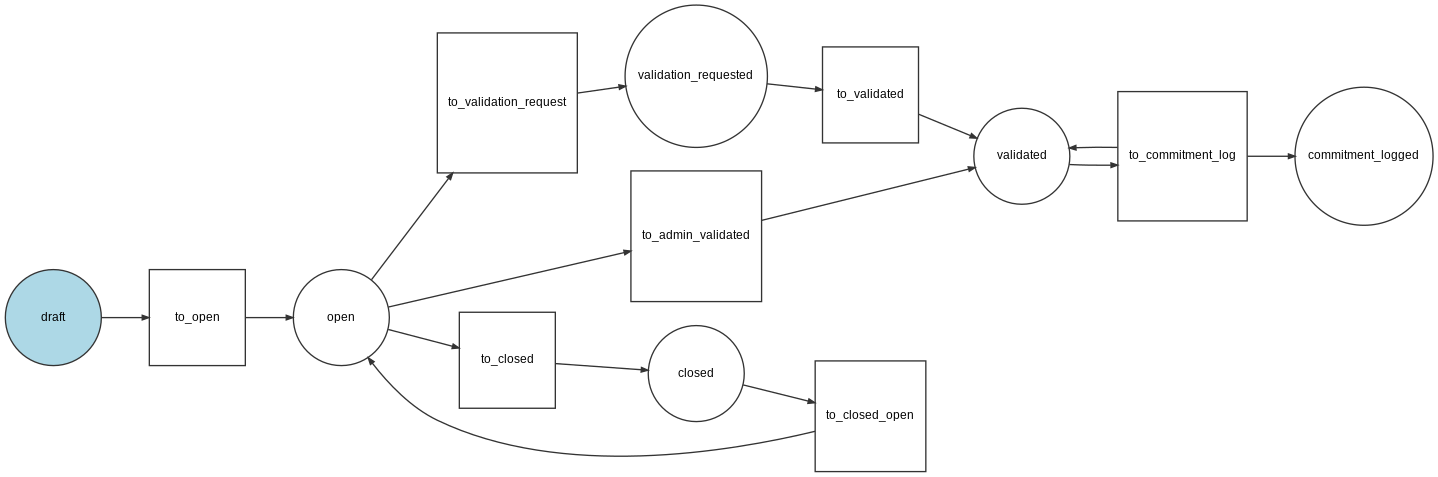
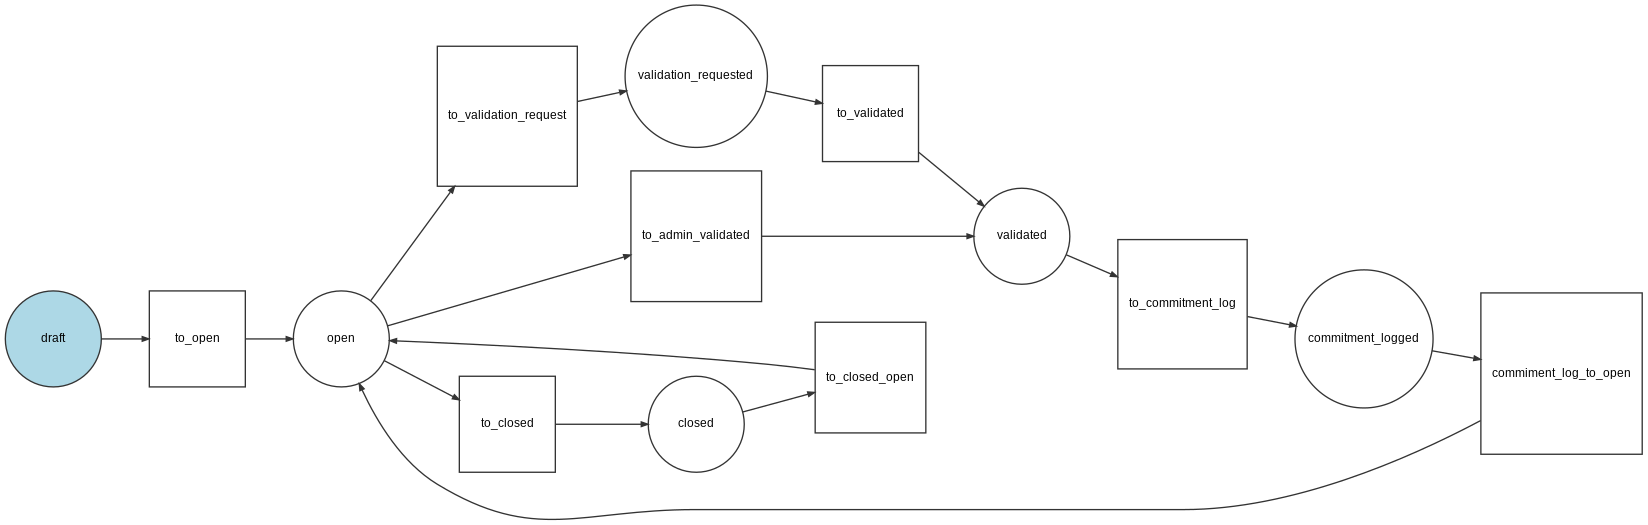
👌 IMPROVE: Timeslot validation multiselection & CommitmentLog review for debit/credit

diff --git a/src/EventListener/TimeslotEventListener.php b/src/EventListener/TimeslotEventListener.php
@@ -1,0 +1,112 @@
+<?php
+
+/*
+ * This file is part of the Kreno package.
+ *
+ * (c) Valentin Van Meeuwen <contact@wikub.com>
+ *
+ * For the full copyright and license information, please view the LICENSE
+ * file that was distributed with this source code.
+ */
+
+namespace App\EventListener;
+
+use App\Entity\CommitmentLog;
+use App\Entity\Job;
+use App\Entity\Timeslot;
+use Doctrine\ORM\EntityManagerInterface;
+use Doctrine\Persistence\Event\LifecycleEventArgs;
+use LogicException;
+use Symfony\Component\Workflow\WorkflowInterface;
+
+class TimeslotEventListener
+{
+    private $timeslotWorkflow;
+    private $em;
+
+    public function __construct(WorkflowInterface $timeslotWorkflow, EntityManagerInterface $entityManager)
+    {
+        $this->timeslotWorkflow = $timeslotWorkflow;
+        $this->em = $entityManager;
+    }
+
+    // the entity listener methods receive two arguments:
+    // the entity instance and the lifecycle event
+    public function postUpdate(Timeslot $timeslot, LifecycleEventArgs $event): void
+    {
+        $changesTimeslot = $this->em->getUnitOfWork()->getEntityChangeSet($timeslot);
+
+        // Validation
+        if (isset($changesTimeslot['status']) && $timeslot->isValidated()) {
+            $this->fromValidatedToCommimentLogged($timeslot);
+        }
+
+        // Cancel Validation
+        if (isset($changesTimeslot['status']) && \array_key_exists('commitment_logged', $changesTimeslot['status'][0]) && \array_key_exists('open', $changesTimeslot['status'][1])) {
+            $this->fromCommimentLoggedToOpen($timeslot);
+        }
+
+        $this->em->flush();
+    }
+
+    private function fromValidatedToCommimentLogged(Timeslot $timeslot)
+    {
+        try {
+            $this->timeslotWorkflow->apply($timeslot, 'to_commitment_log');
+        } catch (LogicException $exception) {
+            return;
+        }
+
+        foreach ($timeslot->getJobs() as $job) {
+            if (null === $job->getUser()) {
+                continue;
+            }
+
+            if ($job->getTimeslot()->isCommitmentLogged()) {
+                // add commitmentlog credit
+                if ($job->getJobDone()->getCommitmentCalculation()) {
+                    $job->setCommitmentLog($this->addCommitmentLog($job));
+                }
+            }
+            $this->em->persist($job);
+        }
+
+        $this->em->persist($timeslot);
+    }
+
+    private function fromCommimentLoggedToOpen(Timeslot $timeslot)
+    {
+        foreach ($timeslot->getJobs() as $job) {
+            if (null === $job->getCommitmentLog()) {
+                continue;
+            }
+
+            $this->addCancelCommitmentLog($job);
+            $job->setCommitmentLog(null);
+
+            $this->em->persist($job);
+        }
+
+        $this->em->persist($timeslot);
+    }
+
+    private function addCancelCommitmentLog(Job $job)
+    {
+        $commitLog = new CommitmentLog();
+        $commitLog->setUser($job->getUser());
+        $commitLog->setNbTimeslot(-1 * $job->getCommitmentLog()->getNbTimeslot());
+        $commitLog->setComment('Annulation : '.$job->getCommitmentLog()->getComment());
+        $this->em->persist($commitLog);
+    }
+
+    private function addCommitmentLog(Job $job): CommitmentLog
+    {
+        $commitLog = new CommitmentLog();
+        $commitLog->setUser($job->getUser());
+        $commitLog->setNbTimeslot(1);
+        $commitLog->setComment($job->getTimeslot()->getDisplayName().' '.$job->getTimeslot()->getDisplayDateInterval());
+        $this->em->persist($commitLog);
+
+        return $commitLog;
+    }
+}

diff --git a/migrations/Version20220426142057.php b/migrations/Version20220426142057.php
@@ -1,0 +1,46 @@
+<?php
+
+declare(strict_types=1);
+
+/*
+ * This file is part of the Kreno package.
+ *
+ * (c) Valentin Van Meeuwen <contact@wikub.com>
+ *
+ * For the full copyright and license information, please view the LICENSE
+ * file that was distributed with this source code.
+ */
+
+namespace DoctrineMigrations;
+
+use Doctrine\DBAL\Schema\Schema;
+use Doctrine\Migrations\AbstractMigration;
+
+/**
+ * Auto-generated Migration: Please modify to your needs!
+ */
+final class Version20220426142057 extends AbstractMigration
+{
+    public function getDescription(): string
+    {
+        return '';
+    }
+
+    public function up(Schema $schema): void
+    {
+        // this up() migration is auto-generated, please modify it to your needs
+        $this->addSql('ALTER TABLE commitment_log CHANGE nb_hour nb_hour NUMERIC(10, 1) DEFAULT \'0\' NOT NULL');
+        $this->addSql('ALTER TABLE job ADD commitment_log_id INT DEFAULT NULL');
+        $this->addSql('ALTER TABLE job ADD CONSTRAINT FK_FBD8E0F8EB0B0106 FOREIGN KEY (commitment_log_id) REFERENCES commitment_log (id)');
+        $this->addSql('CREATE UNIQUE INDEX UNIQ_FBD8E0F8EB0B0106 ON job (commitment_log_id)');
+    }
+
+    public function down(Schema $schema): void
+    {
+        // this down() migration is auto-generated, please modify it to your needs
+        $this->addSql('ALTER TABLE commitment_log CHANGE nb_hour nb_hour NUMERIC(10, 1) DEFAULT \'0.0\' NOT NULL');
+        $this->addSql('ALTER TABLE job DROP FOREIGN KEY FK_FBD8E0F8EB0B0106');
+        $this->addSql('DROP INDEX UNIQ_FBD8E0F8EB0B0106 ON job');
+        $this->addSql('ALTER TABLE job DROP commitment_log_id');
+    }
+}

diff --git a/src/Controller/Admin/TimeslotController.php b/src/Controller/Admin/TimeslotController.php
@@ -96,6 +96,12 @@ class TimeslotController extends AbstractController
         $form->handleRequest($request);
 
         if ($form->isSubmitted() && $form->isValid()) {
+            foreach ($timeslot->getJobs() as $job) {
+                $entityManager->merge($job);
+            }
+
+            // dd($timeslot);
+
             $entityManager->persist($timeslot);
             $entityManager->flush();
 
@@ -182,5 +188,26 @@ class TimeslotController extends AbstractController
         }
 
         return $this->redirectToRoute('admin_week_show', ['id' => $week->getId()]);
+    }
+
+    /**
+     * @Route("/{id}/cancel-validation", name="cancel_validation")
+     */
+    public function cancelValidation(Timeslot $timeslot, Request $request): Response
+    {
+        try {
+            $this->timeslotWorkflow->apply($timeslot, 'commiment_log_to_open');
+        } catch (LogicException $exception) {
+            $this->addFlash('error', 'L\'opération ne peut pas être réalisée [workflow]');
+
+            return $this->redirect($request->headers->get('referer'));
+        }
+
+        $this->em->persist($timeslot);
+        $this->em->flush();
+
+        $this->addFlash('success', 'Annulation de la validation du créneau (Attention, les membres ont été débité de leur créneau)');
+
+        return $this->redirect($request->headers->get('referer'));
     }
 }

diff --git a/src/Entity/Timeslot.php b/src/Entity/Timeslot.php
@@ -79,7 +79,7 @@ class Timeslot
     private $timeslotType;
 
     /**
-     * @ORM\OneToMany(targetEntity=Job::class, mappedBy="timeslot", orphanRemoval=true, cascade={"persist"})
+     * @ORM\OneToMany(targetEntity=Job::class, mappedBy="timeslot", fetch="EAGER", cascade={"all"})
      */
     private $jobs;
 
@@ -264,7 +264,7 @@ class Timeslot
     public function addJob(Job $job): self
     {
         if (!$this->jobs->contains($job)) {
-            $this->jobs[] = $job;
+            $this->jobs->add($job);
             $job->setTimeslot($this);
         }
 
@@ -347,6 +347,12 @@ class Timeslot
         if (\array_key_exists('validated', $this->status)) {
             return true;
         }
+
+        return false;
+    }
+
+    public function isCommitmentLogged(): bool
+    {
         if (\array_key_exists('commitment_logged', $this->status)) {
             return true;
         }

diff --git a/src/Entity/Job.php b/src/Entity/Job.php
@@ -47,6 +47,11 @@ class Job
      */
     private $manager;
 
+    /**
+     * @ORM\OneToOne(targetEntity=CommitmentLog::class, cascade={"persist", "remove"})
+     */
+    private $commitmentLog;
+
     public function __construct()
     {
         $this->manager = false;
@@ -101,6 +106,18 @@ class Job
     public function setManager(bool $manager): self
     {
         $this->manager = $manager;
+
+        return $this;
+    }
+
+    public function getCommitmentLog(): ?CommitmentLog
+    {
+        return $this->commitmentLog;
+    }
+
+    public function setCommitmentLog(?CommitmentLog $commitmentLog): self
+    {
+        $this->commitmentLog = $commitmentLog;
 
         return $this;
     }

diff --git a/src/Form/Admin/JobValidationType.php b/src/Form/Admin/JobValidationType.php
@@ -60,7 +60,6 @@ class JobValidationType extends AbstractType
     {
         $resolver->setDefaults([
             'data_class' => Job::class,
-            'by_reference' => false,
         ]);
     }
 }

diff --git a/src/Form/Admin/JobType.php b/src/Form/Admin/JobType.php
@@ -49,7 +49,6 @@ class JobType extends AbstractType
     {
         $resolver->setDefaults([
             'data_class' => Job::class,
-            'by_reference' => false,
         ]);
     }
 }
